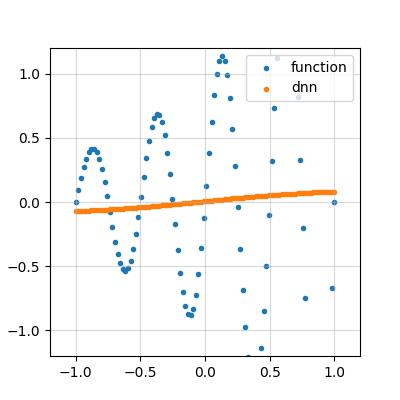
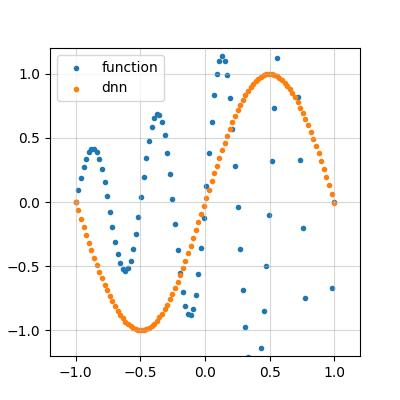
add code

diff --git a/00_tf2/main.py b/00_tf2/main.py
@@ -20,37 +20,7 @@ def main():
     xmin = -1.
     xmax =  1.
     nx   = 100
-
-    p_id = 0
-    if p_id == 0:
-        x = np.linspace(xmin, xmax, nx)
-        y = func0(x)
-        plt.figure(figsize=(4, 4))
-        plt.scatter(x, y, marker=".")
-        plt.xlim(-1.2, 1.2)
-        plt.ylim(-1.2, 1.2)
-        plt.grid(alpha=.5)
-        plt.savefig("./figures/problem" + str(p_id) + ".jpg")
-    elif p_id == 1:
-        x = np.linspace(xmin, xmax, nx)
-        y = func1(x)
-        plt.figure(figsize=(4, 4))
-        plt.scatter(x, y, marker=".")
-        plt.xlim(-1.2, 1.2)
-        plt.ylim(-1.2, 1.2)
-        plt.grid(alpha=.5)
-        plt.savefig("./figures/problem" + str(p_id) + ".jpg")
-    elif p_id == 2:
-        x = np.linspace(xmin, xmax, nx)
-        y = func2(x)
-        plt.figure(figsize=(4, 4))
-        plt.scatter(x, y, marker=".")
-        plt.xlim(-1.2, 1.2)
-        plt.ylim(-2.5, 2.5)
-        plt.grid(alpha=.5)
-        plt.savefig("./figures/problem" + str(p_id) + ".jpg")
-    else:
-        raise NotImplementedError(">>>>> p_id")
+    p_id = 2
 
     # params
     f_in   = 1
@@ -59,25 +29,38 @@ def main():
     depth  = 3
     w_init = "Glorot"
     b_init = "zeros"
-    act    = "relu"
     lr     = 5e-4
     opt    = "Adam"
     f_scl  = "minmax"
     d_type = "float32"
     r_seed = 1234
 
-    # perpare dataset
-    x_train = tf.random.uniform(
-        (10, 1), xmin, xmax, dtype=d_type
-    )
-    x_train = np.linspace(xmin, xmax, 10)
-    x_train = x_train.reshape(-1, 1)
+    # prepare data
+    x = np.linspace(xmin, xmax, nx)
+    x_train = np.linspace(xmin, xmax, int(nx / 5)).reshape(-1, 1)
     x_train = tf.convert_to_tensor(x_train, dtype=d_type)
+    x_infer = np.linspace(xmin, xmax, nx).reshape(-1, 1)
+    x_infer = tf.convert_to_tensor(x_infer, dtype=d_type)
+
+    if p_id == 0:
+        y = func0(x)
+        y_train = func0_tf(x_train)
+    elif p_id == 1:
+        y = func1(x)
+        y_train = func1_tf(x_train)
+    elif p_id == 2:
+        y = func2(x)
+        y_train = func2_tf(x_train)
+    else:
+        raise NotImplementedError(">>>>> p_id")
+
+    # perpare dataset
+    # x_train = np.linspace(xmin, xmax, int(nx / 5)).reshape(-1, 1)
+    # x_train = tf.convert_to_tensor(x_train, dtype=d_type)
     y_train = tf.sin(np.pi * x_train)
-    print("x_train.shape", x_train.shape)
-    print("y_train.shape", y_train.shape)
 
     # define model
+    act = "swish"
     model = DNN(
         x_train, y_train, 
         f_in, f_out, f_hid, depth, 
@@ -85,14 +68,15 @@ def main():
         lr, opt, f_scl, 
         d_type, r_seed
     )
-
     # train
     with tf.device("/device:GPU:0"):
         model.train(n_epc = int(1e4), n_btc = -1, c_tol = 1e-5)
-
     # infer
-    x_infer = tf.cast(x, dtype=d_type)
+    # x_infer = np.linspace(xmin, xmax, nx).reshape(-1, 1)
+    # x_infer = tf.convert_to_tensor(x_infer, dtype=d_type)
     y_infer = model.infer(x_infer)
+
+    # compare
     plt.figure(figsize=(4, 4))
     plt.scatter(x, y, marker=".", label="function")
     plt.scatter(x_infer, y_infer, marker=".", label="dnn")

diff --git a/00_tf2/functions.py b/00_tf2/functions.py
@@ -5,9 +5,13 @@ functions to be learned
 """
 
 import numpy as np
+import tensorflow as tf
 
 def func0(x):
     y = np.sin(np.pi * x)
+    return y
+def func0_tf(x):
+    y = tf.sin(np.pi * x)
     return y
 
 def func1(x):
@@ -15,8 +19,16 @@ def func1(x):
         + .3 * np.sin(2. * np.pi * x) \
         + .1 * np.cos(8. * np.pi * x)
     return y
+def func1_tf(x):
+    y = .6 * tf.sin(np.pi * x) \
+        + .3 * tf.sin(2. * np.pi * x) \
+        + .1 * tf.cos(8. * np.pi * x)
+    return y
 
 def func2(x):
     y = np.exp(x) * np.sin(4. * np.pi * x)
+    return y
+def func2_tf(x):
+    y = tf.exp(x) * tf.sin(4. * np.pi * x)
     return y
 

diff --git a/00_tf2/dnn.py b/00_tf2/dnn.py
@@ -41,8 +41,8 @@ class DNN(tf.keras.Model):
         self.y = y
 
         XY = tf.concat([x, y], 1)
-        self.lower = tf.cast(tf.reduce_min(XY, axis = 0), dtype=self.d_type)
-        self.upper = tf.cast(tf.reduce_max(XY, axis = 0), dtype=self.d_type)
+        self.lower = tf.cast(tf.reduce_min (XY, axis = 0), dtype=self.d_type)
+        self.upper = tf.cast(tf.reduce_max (XY, axis = 0), dtype=self.d_type)
         self.mean  = tf.cast(tf.reduce_mean(XY, axis = 0), dtype=self.d_type)
 
         # build a deep neural network
